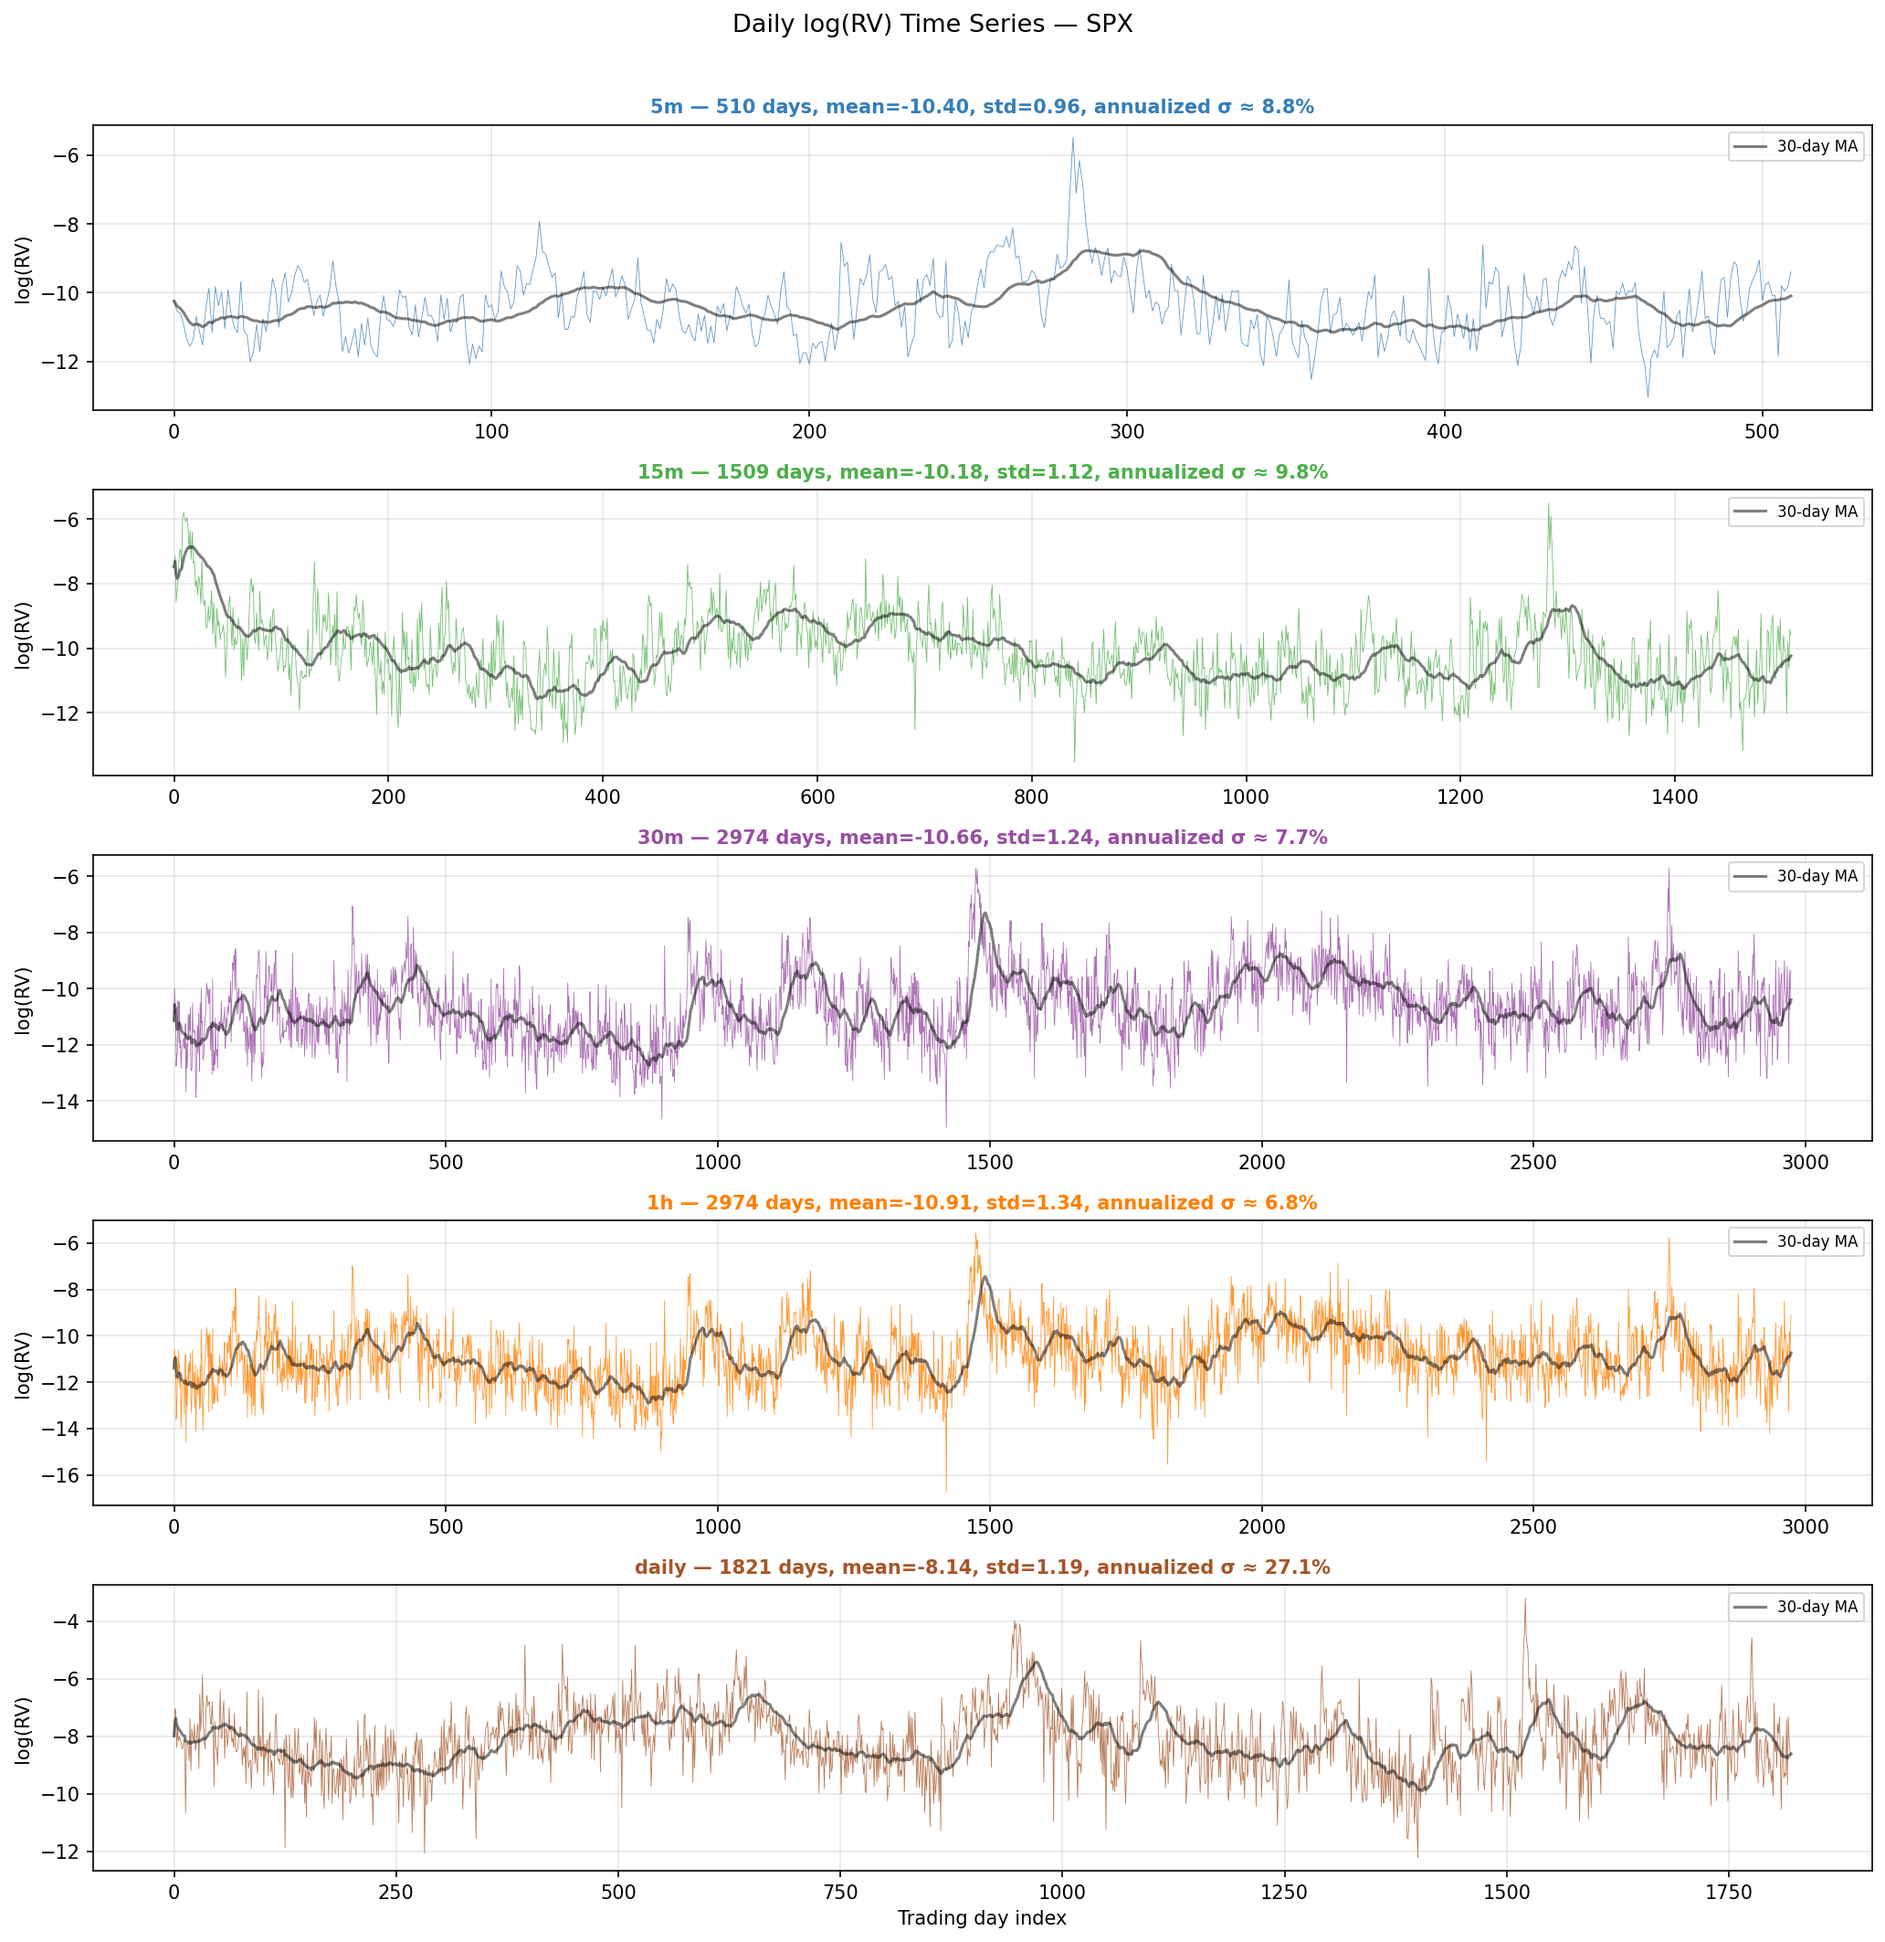
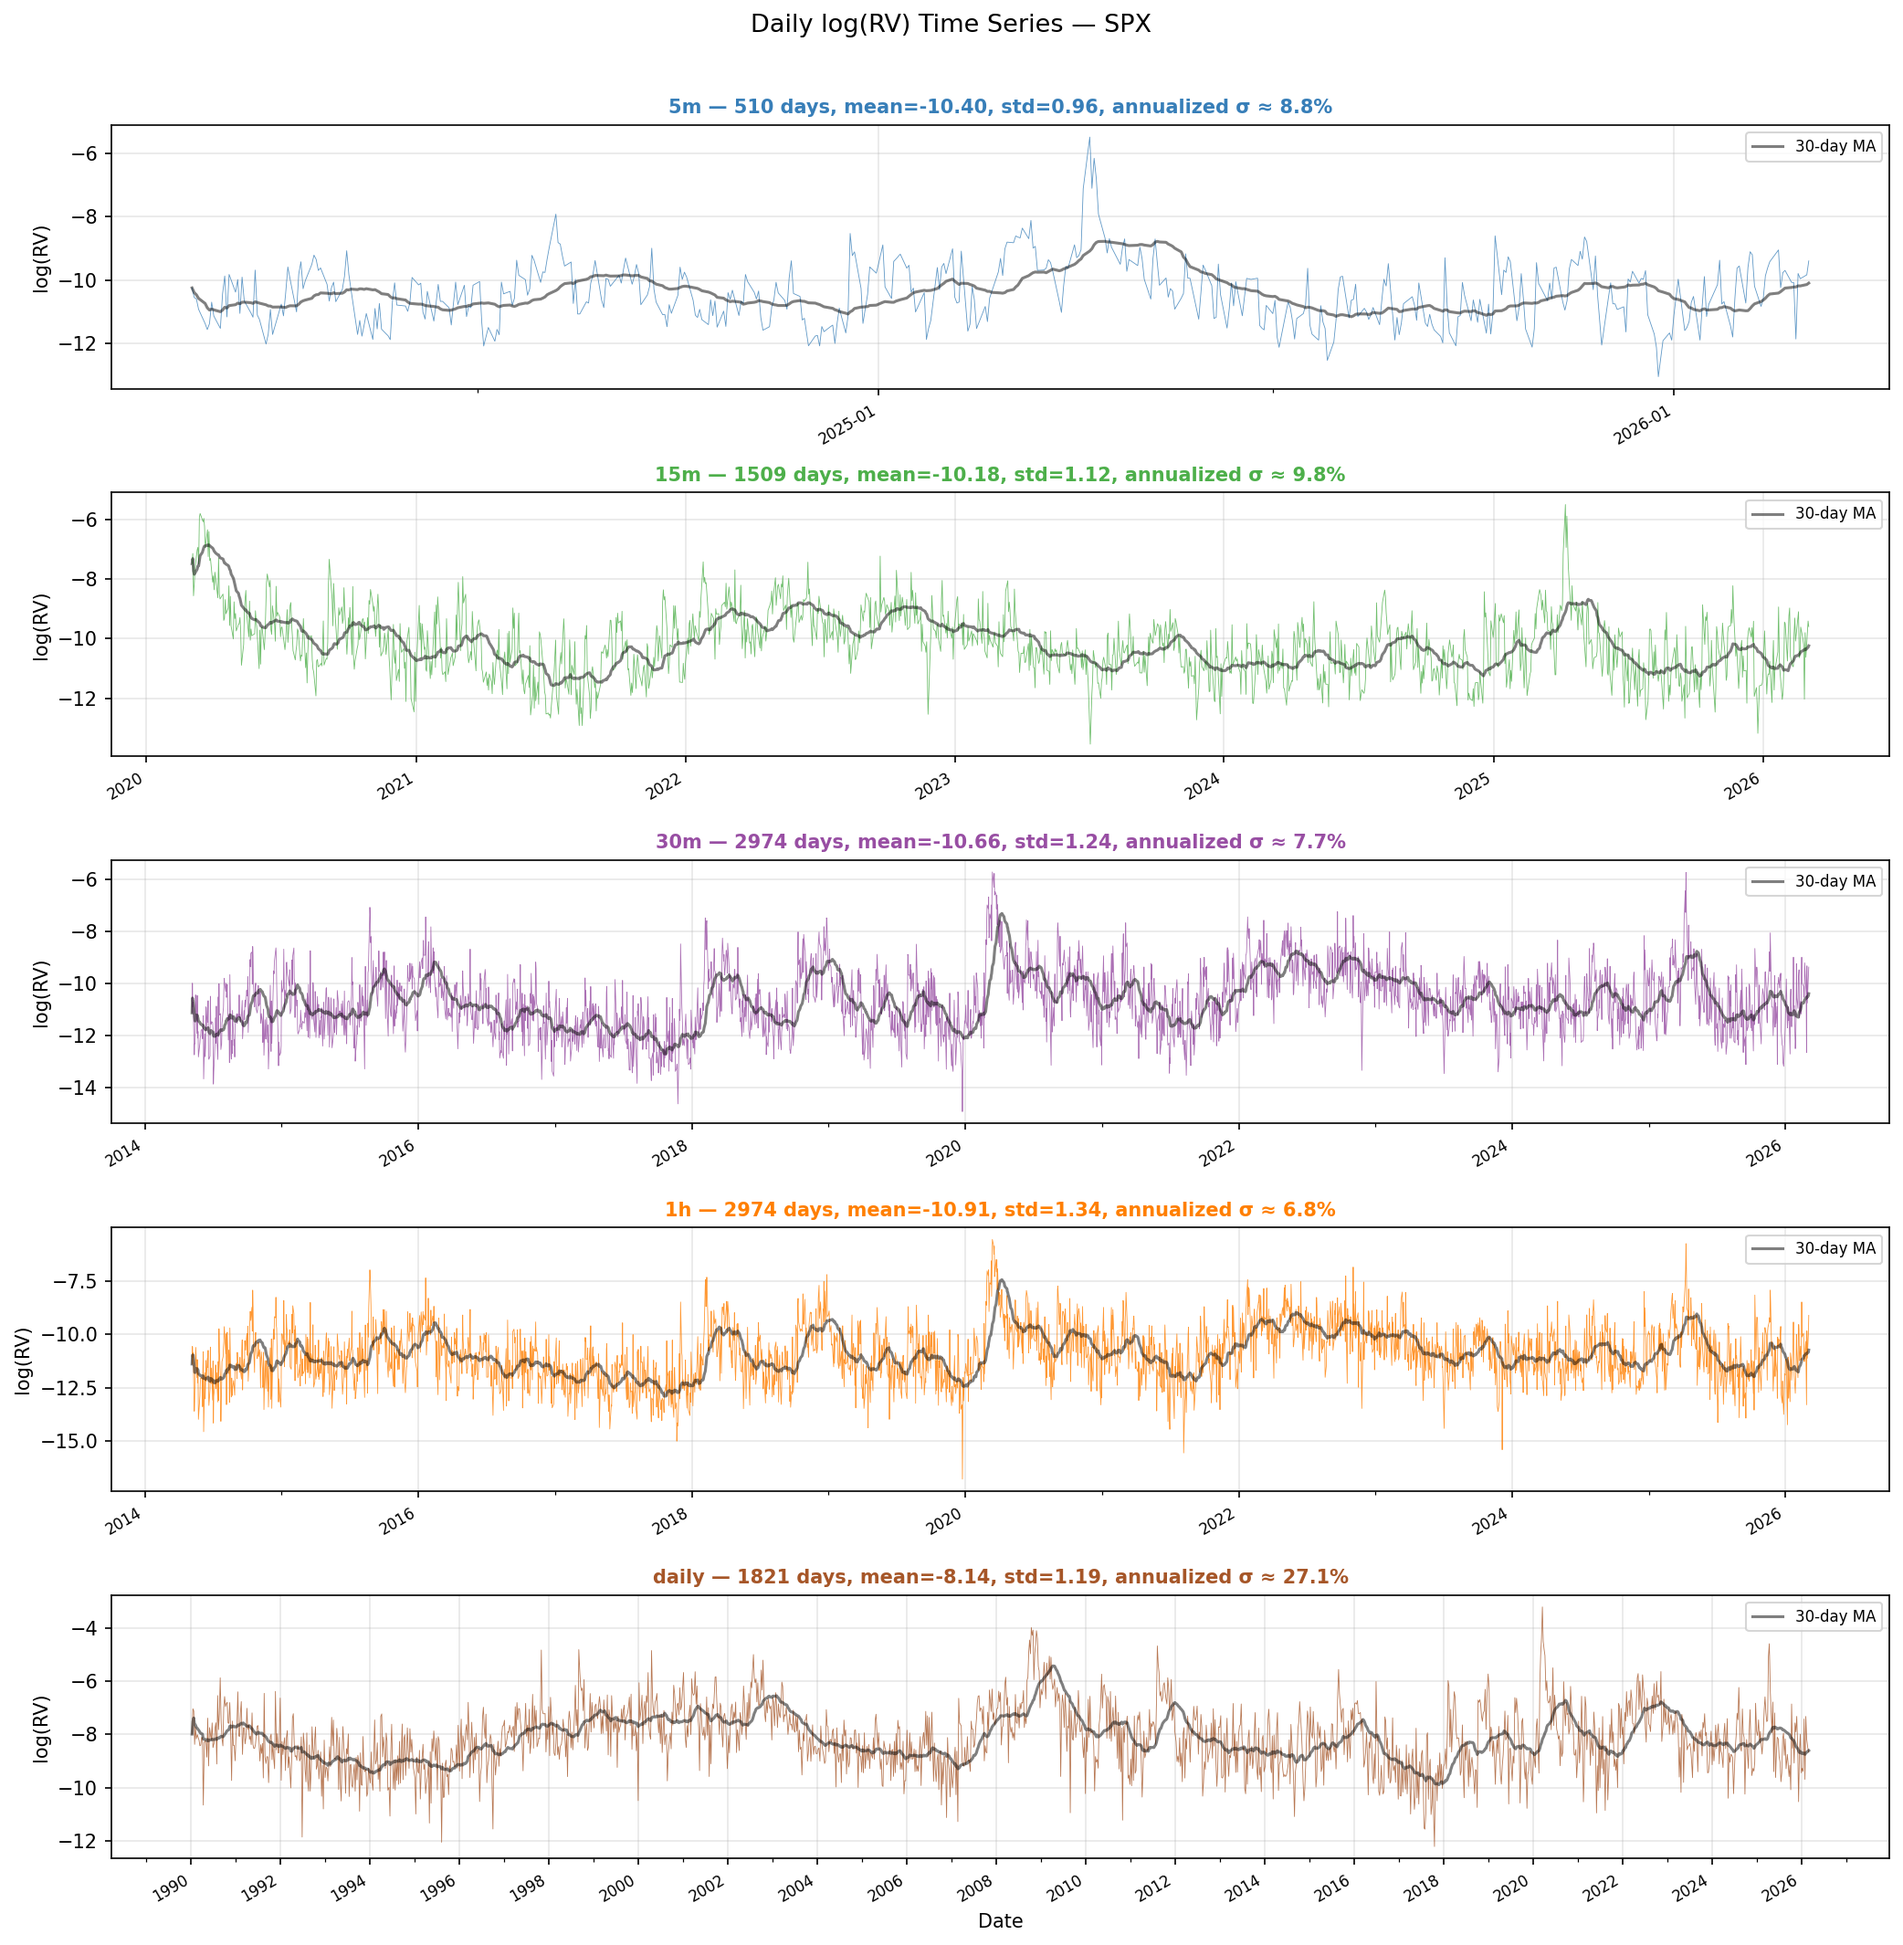
changes

diff --git a/quant/hurst_estimation.py b/quant/hurst_estimation.py
@@ -100,6 +100,7 @@ class MultiScaleResult:
     estimates: dict[str, list[HurstBootstrapResult]]  # method -> list over scales
     rv_series: dict[str, np.ndarray]                   # freq_label -> daily log(RV)
     tsrv_series: dict[str, np.ndarray]                 # freq_label -> daily log(TSRV)
+    dates: dict[str, pd.DatetimeIndex]                 # freq_label -> dates for each RV point
     consensus_H: float                                 # Weighted consensus H
     consensus_std: float                               # Uncertainty on consensus
 
@@ -245,7 +246,7 @@ def compute_daily_rv_multiscale(
     min_bars_per_day: int = 10,
     use_tsrv: bool = False,
     tsrv_K: Optional[int] = None,
-) -> tuple[np.ndarray, int]:
+) -> tuple[np.ndarray, list]:
     """
     Load a CSV and compute daily RV (or TSRV) from intraday prices.
 
@@ -259,17 +260,21 @@ def compute_daily_rv_multiscale(
 
     Returns
     -------
-    (rv_array, n_days) — daily (T)RV values and number of trading days
+    (rv_array, dates_list) — daily (T)RV values and corresponding end-of-day dates
     """
     df = pd.read_csv(file_path)
     segments = _segment_trading_days(df, max_gap_hours, min_bars_per_day)
 
+    dates_list = [seg['datetime'].iloc[-1] for seg in segments if len(seg) > 0]
+    
     if use_tsrv:
         rv = compute_tsrv_from_segments(segments, K=tsrv_K)
     else:
         rv = compute_rv_from_segments(segments)
 
-    return rv, len(rv)
+    # Match dates to rv (some segments might not have valid RV)
+    valid_dates = dates_list[:len(rv)]
+    return rv, valid_dates
 
 
 # ═══════════════════════════════════════════════════════════════════
@@ -694,12 +699,12 @@ def compute_log_rv_from_file(
     file_path: str | Path,
     freq_label: str,
     max_gap_hours: float = 4.0,
-) -> np.ndarray:
+) -> tuple[np.ndarray, pd.DatetimeIndex]:
     """
     Compute log(RV) or log(TSRV) daily series from a CSV file.
 
-    For daily data, we use |log-return|² as the RV proxy
-    (since there's no intraday structure to aggregate).
+    For daily data, we use rolling realized variance.
+    For intraday data, we aggregate returns within each trading day.
 
     Parameters
     ----------
@@ -709,7 +714,7 @@ def compute_log_rv_from_file(
 
     Returns
     -------
-    1-D array of log(RV_daily) or log(TSRV_daily).
+    tuple: (log_rv, dates) where dates is a DatetimeIndex for each RV point.
     """
     file_path = Path(file_path)
     if not file_path.exists():
@@ -718,9 +723,9 @@ def compute_log_rv_from_file(
     min_bars = MIN_BARS_PER_DAY.get(freq_label, 10)
 
     if freq_label == "daily":
-        # For daily data: use squared log-returns as a proxy for daily vol
-        # (This is NOT a true RV — it's the daily return squared.  
-        #  We include it for multi-scale comparison but weight it less.)
+        # For daily data: use non-overlapping 5-day windows to compute
+        # realized variance from daily close-to-close returns.
+        # Non-overlapping avoids autocorrelation bias in Hurst estimation.
         df = pd.read_csv(file_path)
         df['close'] = pd.to_numeric(df['close'], errors='coerce')
         df['datetime'] = pd.to_datetime(df['time'], unit='s', utc=True)
@@ -728,21 +733,26 @@ def compute_log_rv_from_file(
         # Filter to post-1990 (pre-1990 data may have quality issues)
         df = df[df['datetime'].dt.year >= 1990].reset_index(drop=True)
         log_returns = np.diff(np.log(df['close'].values))
-        # Use rolling realized variance: 5-day window
-        # RV_weekly = Σ_{i=t}^{t+4} r²ᵢ (non-overlapping)
+        dates = df['datetime'].values[1:]  # dates corresponding to returns
+        
+        # Non-overlapping 5-day windows (stride = window)
         window = 5
+        rv_list = []
+        dates_list = []
         n_windows = len(log_returns) // window
-        rv = np.zeros(n_windows)
-        for w in range(n_windows):
-            chunk = log_returns[w * window: (w + 1) * window]
-            rv[w] = np.sum(chunk ** 2)
-        rv = rv[rv > 1e-16]
-        return np.log(rv)
+        for i in range(n_windows):
+            chunk = log_returns[i * window : (i + 1) * window]
+            rv_val = np.sum(chunk ** 2)
+            if rv_val > 1e-16:
+                rv_list.append(rv_val)
+                dates_list.append(dates[(i + 1) * window - 1])  # Date of last day in window
+        
+        return np.log(np.array(rv_list)), pd.DatetimeIndex(dates_list)
 
     # Intraday data → segment into trading days → compute (T)RV
     use_tsrv = freq_label in TSRV_FREQUENCIES
 
-    rv, n_days = compute_daily_rv_multiscale(
+    rv, dates_rv = compute_daily_rv_multiscale(
         file_path,
         max_gap_hours=max_gap_hours,
         min_bars_per_day=min_bars,
@@ -755,7 +765,7 @@ def compute_log_rv_from_file(
             f"Check data quality or reduce min_bars_per_day."
         )
 
-    return np.log(rv)
+    return np.log(rv), pd.DatetimeIndex(dates_rv)
 
 
 def run_multiscale_hurst(
@@ -797,6 +807,7 @@ def run_multiscale_hurst(
         methods = ["variogram", "structure_q1", "ratio", "dma"]
 
     rv_series: dict[str, np.ndarray] = {}
+    dates_series: dict[str, pd.DatetimeIndex] = {}
     tsrv_labels: dict[str, np.ndarray] = {}
     all_estimates: dict[str, list[HurstBootstrapResult]] = {m: [] for m in methods}
 
@@ -812,13 +823,14 @@ def run_multiscale_hurst(
             continue
 
         try:
-            log_rv = compute_log_rv_from_file(fpath, freq_label)
+            log_rv, dates = compute_log_rv_from_file(fpath, freq_label)
         except (ValueError, FileNotFoundError) as e:
             if verbose:
                 print(f"  [{freq_label:>6s}] SKIP — {e}")
             continue
 
         rv_series[freq_label] = log_rv
+        dates_series[freq_label] = dates
         is_tsrv = freq_label in TSRV_FREQUENCIES
         if is_tsrv:
             tsrv_labels[freq_label] = log_rv
@@ -875,6 +887,7 @@ def run_multiscale_hurst(
         estimates=all_estimates,
         rv_series=rv_series,
         tsrv_series=tsrv_labels,
+        dates=dates_series,
         consensus_H=consensus_H,
         consensus_std=consensus_std,
     )

diff --git a/bin/hurst_multiscale.py b/bin/hurst_multiscale.py
@@ -332,6 +332,7 @@ def plot_logrv_timeseries(result: MultiScaleResult, save_dir: Path) -> None:
     import matplotlib
     matplotlib.use("Agg")
     import matplotlib.pyplot as plt
+    import matplotlib.dates as mdates
 
     freq_labels = list(result.rv_series.keys())
     n = len(freq_labels)
@@ -350,12 +351,41 @@ def plot_logrv_timeseries(result: MultiScaleResult, save_dir: Path) -> None:
     for i, freq in enumerate(freq_labels):
         ax = axes[i]
         log_rv = result.rv_series[freq]
+        dates = result.dates.get(freq, None)
         color = freq_colors.get(freq, 'steelblue')
-        ax.plot(log_rv, linewidth=0.4, color=color, alpha=0.8)
-        # Add rolling mean to distinguish visually
-        if len(log_rv) > 60:
-            roll = pd.Series(log_rv).rolling(30, min_periods=1).mean().values
-            ax.plot(roll, linewidth=1.5, color='black', alpha=0.5, label='30-day MA')
+        
+        # Plot with dates if available, otherwise use index
+        if dates is not None and len(dates) == len(log_rv):
+            ax.plot(dates, log_rv, linewidth=0.4, color=color, alpha=0.8)
+            # Add rolling mean with dates
+            if len(log_rv) > 60:
+                roll = pd.Series(log_rv).rolling(30, min_periods=1).mean().values
+                ax.plot(dates, roll, linewidth=1.5, color='black', alpha=0.5, label='30-day MA')
+            
+            # Format x-axis with dates
+            date_range = (dates[-1] - dates[0]).days
+            if date_range > 3650:  # > 10 years
+                ax.xaxis.set_major_locator(mdates.YearLocator(2))
+                ax.xaxis.set_minor_locator(mdates.YearLocator())
+                ax.xaxis.set_major_formatter(mdates.DateFormatter('%Y'))
+            elif date_range > 1825:  # 5-10 years
+                ax.xaxis.set_major_locator(mdates.YearLocator())
+                ax.xaxis.set_major_formatter(mdates.DateFormatter('%Y'))
+            elif date_range > 730:  # 2-5 years
+                ax.xaxis.set_major_locator(mdates.YearLocator())
+                ax.xaxis.set_minor_locator(mdates.MonthLocator((1, 7)))
+                ax.xaxis.set_major_formatter(mdates.DateFormatter('%Y-%m'))
+            else:  # < 2 years
+                ax.xaxis.set_major_locator(mdates.MonthLocator(interval=3))
+                ax.xaxis.set_major_formatter(mdates.DateFormatter('%Y-%m'))
+            
+            plt.setp(ax.xaxis.get_majorticklabels(), rotation=30, ha='right', fontsize=8)
+        else:
+            ax.plot(log_rv, linewidth=0.4, color=color, alpha=0.8)
+            if len(log_rv) > 60:
+                roll = pd.Series(log_rv).rolling(30, min_periods=1).mean().values
+                ax.plot(roll, linewidth=1.5, color='black', alpha=0.5, label='30-day MA')
+        
         ax.set_ylabel("log(RV)", fontsize=10)
         rv_annualized = np.sqrt(np.exp(np.mean(log_rv)) * 252) * 100
         ax.set_title(
@@ -368,7 +398,7 @@ def plot_logrv_timeseries(result: MultiScaleResult, save_dir: Path) -> None:
         if len(log_rv) > 60:
             ax.legend(fontsize=8, loc='upper right')
 
-    axes[-1].set_xlabel("Trading day index", fontsize=10)
+    axes[-1].set_xlabel("Date", fontsize=10)
     fig.suptitle(f"Daily log(RV) Time Series — {result.asset}", fontsize=13, y=1.01)
     fig.tight_layout()
     fig.savefig(save_dir / "hurst_logrv_timeseries.png", dpi=150, bbox_inches="tight")
